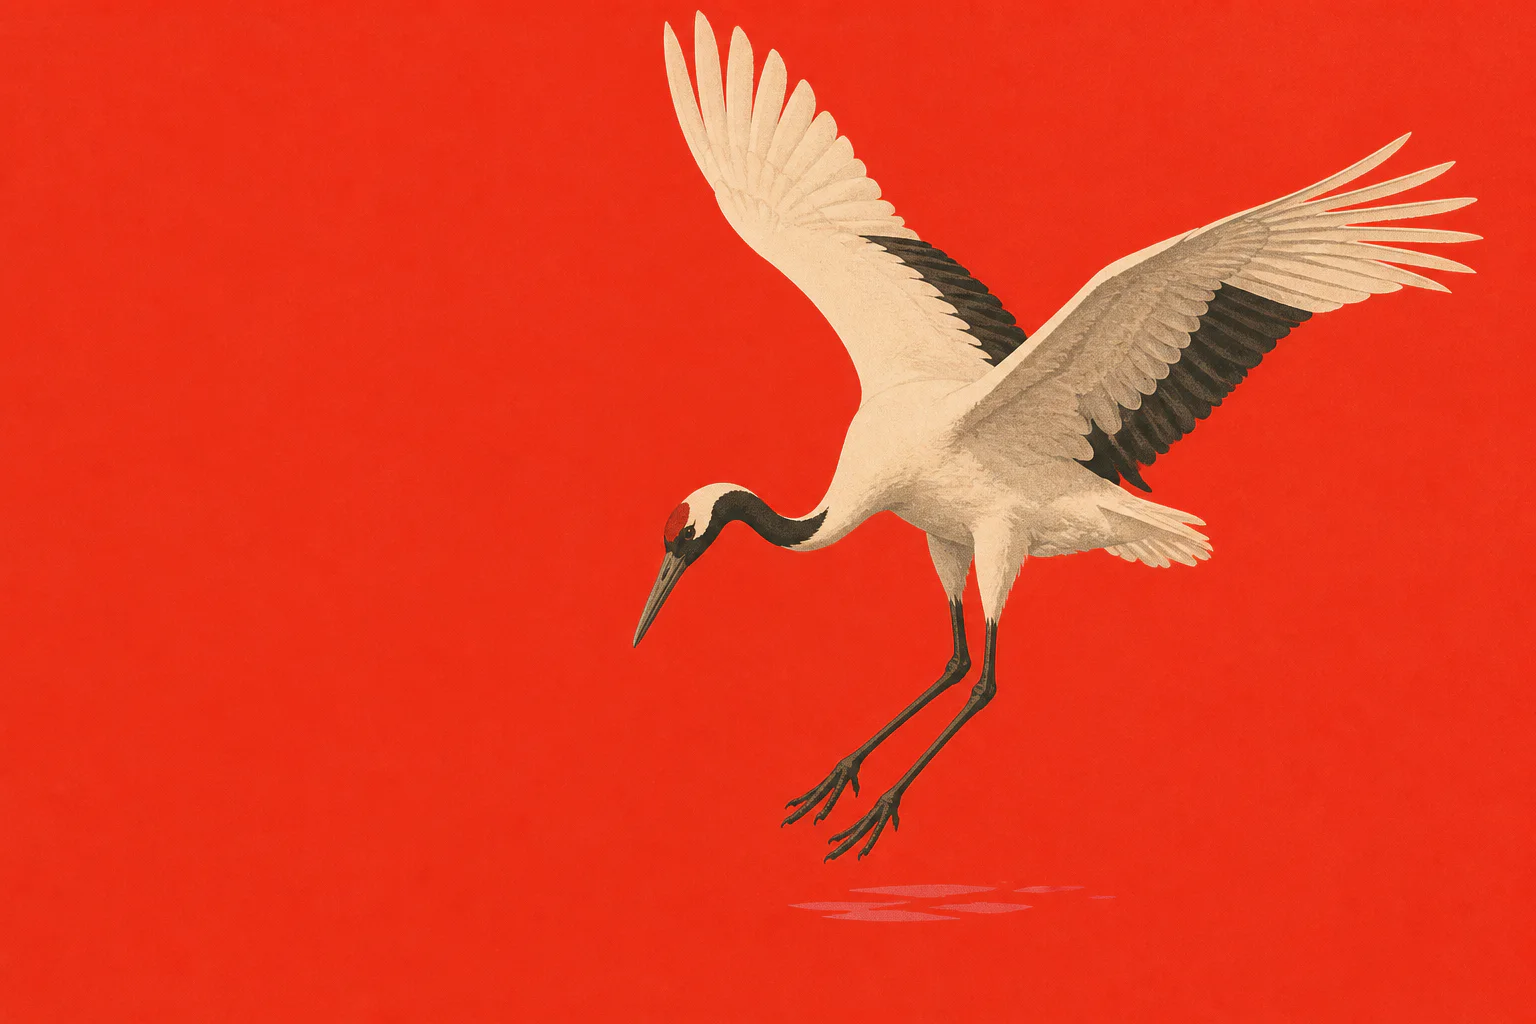
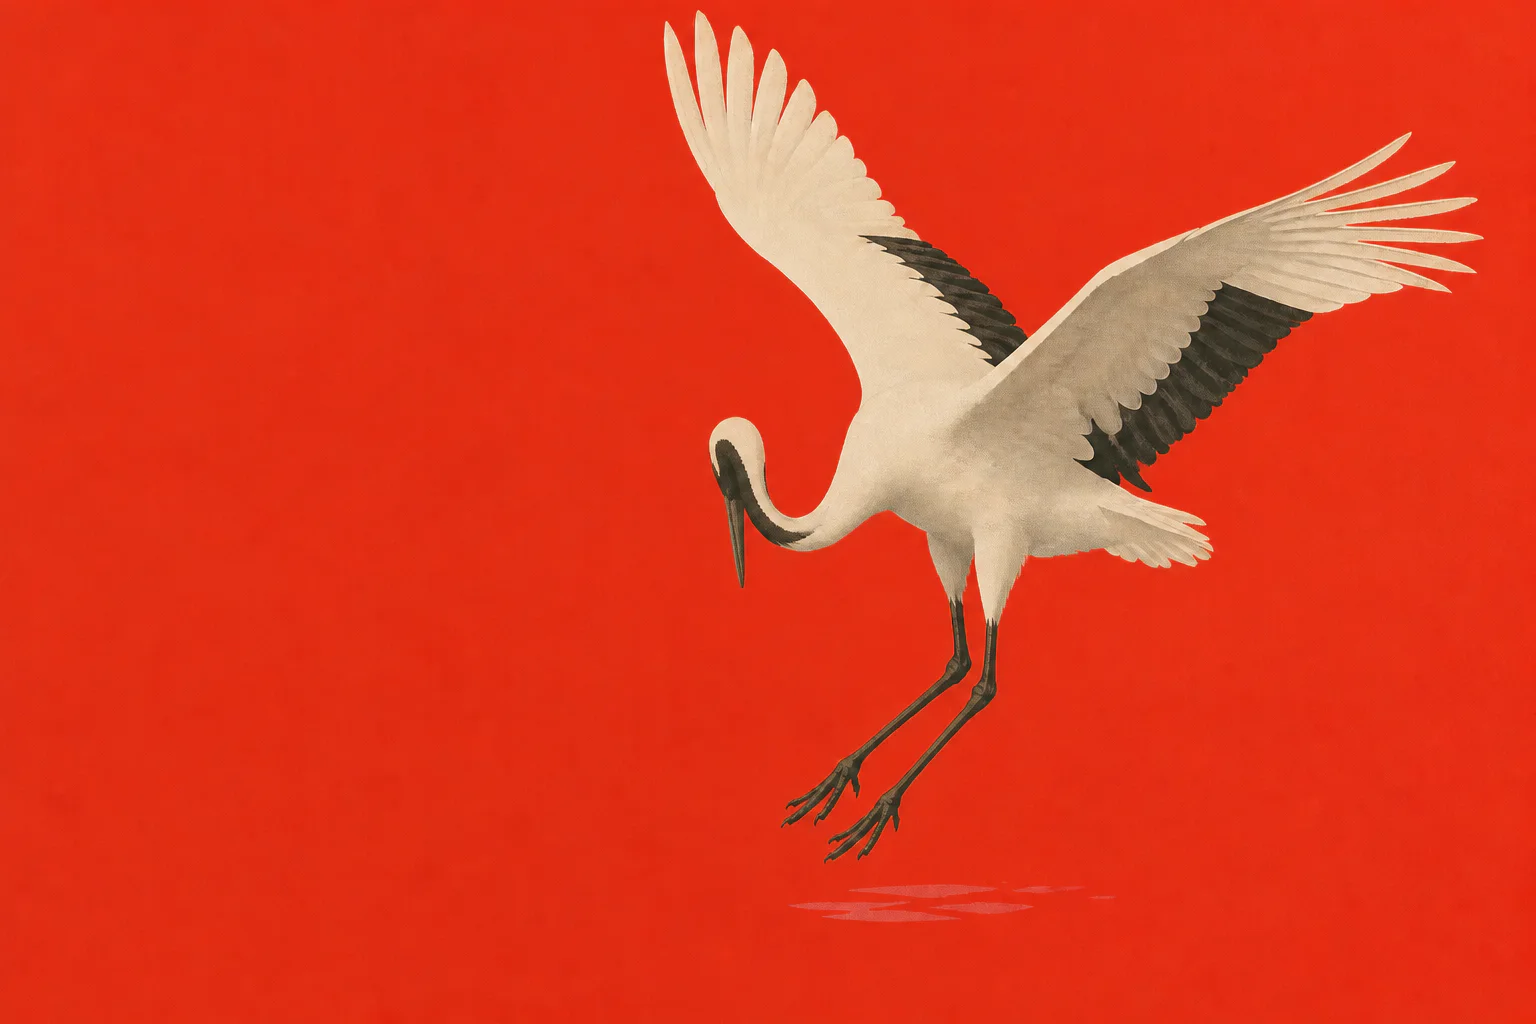
Hide animal eyes and restore purple stag

diff --git a/src/main.ts b/src/main.ts
@@ -19,31 +19,31 @@ const scenes: readonly Scene[] = [
   {
     src: "/animals/01-oryx.webp",
     name: "Walking oryx",
-    description: "An Arabian oryx walking in side profile against vivid cobalt blue.",
+    description: "An Arabian oryx walking with its head turned away against vivid cobalt blue.",
     theme: "#3155d5",
   },
   {
     src: "/animals/02-crane.webp",
     name: "Landing crane",
-    description: "A red-crowned crane descending to land against vivid vermilion.",
+    description: "A red-crowned crane landing with its head turned away against vivid vermilion.",
     theme: "#e34b37",
   },
   {
-    src: "/animals/03-manta.webp",
-    name: "Banking manta",
-    description: "A manta ray banking through water against vivid ultraviolet.",
+    src: "/animals/03-stag.webp",
+    name: "White stag",
+    description: "A white stag seen from behind against vivid ultraviolet.",
     theme: "#6c49ce",
   },
   {
     src: "/animals/04-tiger.webp",
     name: "Stretching tiger",
-    description: "A Bengal tiger stretching naturally against vivid emerald.",
+    description: "A Bengal tiger stretching with its face concealed against vivid emerald.",
     theme: "#129768",
   },
   {
     src: "/animals/05-sailfish.webp",
     name: "Swimming sailfish",
-    description: "A sailfish swimming in side profile against vivid saffron.",
+    description: "A sailfish swimming out of frame against vivid saffron.",
     theme: "#f2a51a",
   },
 ];

diff --git a/index.html b/index.html
@@ -23,7 +23,7 @@
         const files = [
           "/animals/01-oryx.webp",
           "/animals/02-crane.webp",
-          "/animals/03-manta.webp",
+          "/animals/03-stag.webp",
           "/animals/04-tiger.webp",
           "/animals/05-sailfish.webp"
         ];
